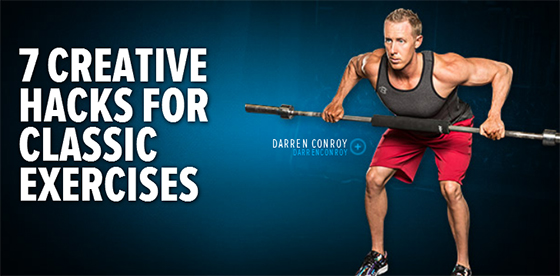
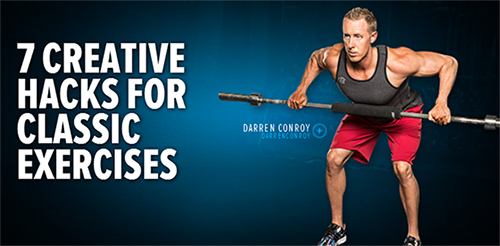
weight loss upadates

diff --git a/pages/weight_loss.html b/pages/weight_loss.html
@@ -109,7 +109,7 @@
 				<li>JAMIE EASON'S GYM GUIDE</li>
 			</nav>
 		</aside>
-		<section id="main_section">
+		
 				<aside id="sidebar-weightloss">
 			<section id="recommended-products">
 				<h3>Recommended Products</h3>
@@ -308,7 +308,7 @@
 				</div>				
 			</section>
 		</aside>
-		
+		<section id="main_section">
 				<!-- content -->
 			<article class="weight-loss-pgs" id="pg1">
 				<section class="hgroup">
@@ -395,7 +395,8 @@
 					</span>
 					
 			</article>
-			<article class="weight-loss-pgs" id="pg1">
+			
+			<article class="weight-loss-pgs" id="pg2">
 				<p>Not feeling rows, push-ups, or curls where you should? Feeling burpees or sprints where you shouldn't? Here's your cheat sheet for taking classic movements to the next level!</p>
 				<footer class="author">
 					<p>Email More</p> 
@@ -406,48 +407,48 @@
 				<p>I'm the sort of trainer who believes that proper technique is crucial—and that no technique is sacred. Sound contradictory? It isn't to me. Sure, we may have a perfectly adequate way of performing a movement, but that doesn't mean there isn't a better way to make it work for you, your body, and your goals.</p>
 				<p>I've found that some people are resistant to refining classic exercises; they assume these exercises are just fine the way they are, since old-school athletes and bodybuilders have been using them forever. But here's the thing: Those old-school athletes and bodybuilders were innovators, too. They built upon knowledge they gained from those who came before them, and then they forged their own path. This is the basis of all progress, in all parts of life.</p>
 				<p>In my article, "7 Gym Hacks You Need to Know," I showed you some novel ways to solve common equipment problems in the weight room. This time around, I'm focusing on refinements we've developed for specific exercises. We use these modifications in the Performance U approach to increase the safety, productivity, and efficiency of classic exercises.</p>
-				<figure class="wrap-img">
+				<figure class="widescreen-img">
 					<img class="img" id="hacks" src="../images/seven-hacks.jpg" alt="a photo of guy hold a barbell in position of pull up exercise"/>
 				</figure>
 				<section class= "profile">
 					<figure id="wrap-img">
-						<img class="img" src="../images/nick.jpg" alt="photo of fitness instructor Francine Marques"/>
+						<a href="http://www.bodybuilding.com/fun/nick-tumminello.html" target="_blank">
+							<img class="img" src="../images/nick.jpg" alt="photo of fitness instructor Nick Tumminello"/>
+						</a>
 					</figure>
 					<h4>Vital Stats</h4>
-						<p><span class="titles-profile">Name:</span> Nick Tuminello</p>
-						<p><span class="titles-profile">Occupation:</span>Trainer, owner of Performance University, author of Strength Training for Fat Loss.</p>
+						<p><em class="titles-profile">Name:</em><a href="http://www.bodybuilding.com/fun/nick-tumminello.html" target="_blank">Nick Tuminello</a></p>
+						<p><em class="titles-profile">Occupation:</em>Trainer, owner of Performance University, author of Strength Training for Fat Loss.</p>
 						<p>Location: Ft. Lauderdale, FL</p> 					
 				</section> 
 				
 				<h3 id="burpees">1. Burpees</h3>
-				<div id="show-burpees">
+				<span id="show-burpees" class="all-weightloss-spans">
 					<p>Most trainers and fitness enthusiasts—of all varieties, not just CrossFit athletes—perform the burpee exercise with less-than-optimal form. What do I mean by this? By going down with their feet together and back bent over, they make the movement both less safe and less metabolically demanding than it could be.</p>
 <p>So what's the solution? Perform your squat thrusts—as burpees are alternately known—less like a squat and more like a sumo deadlift. This moves the stress from the back to the hips, which also enables you to work harder. Lucky you!</p>
 <p>Burpee Exercise How to do Perfect Burpees</p>
 <p>Watch The Video - 1:31</p>
-					<div class="video-wrapper">
+					<div class="videoWrapper">
 						<iframe src="https://www.youtube.com/embed/Lt443cTHYSg" frameborder="0" allowfullscreen></iframe>
 					</div>
 
 <p>Of course, you can add a push-up at the bottom of each burpee, if you'd like. You can also add a jump at the top of each burpee if you're looking to make this exercise more dynamic, and want to further increase the metabolic demands.</p>
-</div>
 <h4>Push-Ups</h3>
-
 <p>You already know that letting your head or hips sag toward the floor displays poor control during push-ups. But that's not all you need to know! Here are three ways to make your push-ups safer on the joints and more powerful, allowing you to crank out more reps and boost the intensity of your workout.</p>
 <p>Push-Up Exercise How to do a Perfect Push Up</p>
 <p>Watch The Video - 5:05</p>
-					<div class="video-wrapper">
+					<div class="videoWrapper">
 						<iframe src="https://www.youtube.com/embed/Lt443cTHYSg" frameborder="0" allowfullscreen></iframe>
 					</div>
-<h4>Arm Angle</p>
+<h4>Arm Angle</h4>
 <p>In order to maximize your ability to create force and get better leverage on each rep, keep your elbows closer to your sides at roughly a 20- to 40-degree angle from your body instead of flaring them out at a 90-degree angle as most people do. This easy tweak shortens the lever arm, which gives you an immediate mechanical advantage. You'll be able to better incorporate your lats and upper-back muscles—after all, this is a total upper-body movement—but it will also make it a better chest movement as you crank out rep after solid rep.</p>
 <h4>Elbow Positioning</h4>
 <p>The push-up is a compound exercise that strengthens the chest, shoulders, and triceps. However, many people allow their elbows to wander past their wrists—either behind or out to the side—which reduces the chest and shoulder involvement and makes it more of a triceps-dominant movement. Unless you're trying to isolate your triceps, keep your elbows above your wrists through the entire push-up action. Your elbows should form a 90-degree angle at the bottom position of the movement.</p>
 <h4>Hand Positioning</h4>
 <p>This is a very common problem. If your hands are pointed slightly inward, toward your body's midline, it encourages you to make both of the mistakes I've already covered. Your arms will flare out away from your sides, and your elbows will wander beyond your wrists. Instead, when performing push-ups, turn your hands outward slightly, pointing your fingers out away from your body's middle at roughly a 45-degree angle.</p>
-</div>
+</span>
 <h3 id="one-arm-push-ups">3. One-Arm Push-Ups</h4>
-<div id="one-arm-push-ups-show">
+<span id="show-one-arm-push-ups" class="all-weightloss-spans">
 <p>I consider the one-arm push-up (let's call it the OAP for short) to be the king of upper-body pushing exercises. As I say in the video below, unless you're training the bench press for a specific competition like a football combine or powerlifting competition, the payoff for mastering the one-arm push-up is usually higher.</p>
 <p>Whether you agree with me or not, you can't argue that the OAP is a great exercise for improving upper-body pushing strength and core stiffness—if you do it right. And when I peruse online OAP videos, I see plenty of examples you shouldn't be following.</p>
 <p>One-Arm Push-Up How to do it the RIGHT Way</p>
@@ -455,55 +456,56 @@
 <p> As I note in the video, some of the same cues that make a great push-up make a great single-armer. For instance, keep your wrist below your elbow and turn your hand out, rather than in. Likewise, you need to keep your elbow in—even more so than in the two-arm version.</p>
 <p>Some people gauge the quality of their OAP by how level they keep their shoulders. Meanwhile, their spine bends and extends so much, they look like they're doing the cobra pose in yoga. Let's be clear: I think it's OK if your pressing shoulder rotates toward your hand on the descent, as long as your shoulders and hips rotate together. Rotating your shoulder slightly can help you corkscrew your working arm into the push-up, which is what makes for truly strong OAPs.</p>
 <p>On the way up, try to push the floor down away from you, and don't lean upward. Get square at the top, and lower yourself back down for another go!
-</div>
+</span>
 <h3 id="bent-over">4. Bent-Over Rows And Inverted Rows</h3>
-<div id="bent-over-show">
+<span id="bent-over" class="all-weightloss-spans">
 <p>Wide-grip bent-over rows are a go-to move in the Performance U training approach when it comes to the mid-back musculature. However, while many people know the great cue of pulling the bar to—or "through"—the chest, few can do it without having to rotate their shoulders inward in the last couple of inches. This changes the training effect of the movement and takes the focus off of where it should be.</p>
 <p>The answer to this common problem is simple: Just wander over to the squat rack and pick up that fat-bar pad someone left lying on the floor. Put it on the bar, and pull the pad—not the bar—up to your chest.</p>
 <p>Barbell Bent Over Rows Wide Grip</p>
 <p>Watch The Video - 2:24</p>
-					<div class="video-wrapper">
+					<div class="videoWrapper">
 						<iframe src="https://www.youtube.com/embed/Lt443cTHYSg" frameborder="0" allowfullscreen></iframe>
 					</div>
 <p>The same hack works wonders on the wide-grip inverted row, another movement where the last couple of inches become a sloppy struggle for far too many people. Use the pad as I direct in these videos, and you'll find yourself rubbing—or at least trying to rub— your middle back the next day, rather than your front delts or biceps.</p>
 <p>Inverted Row Exercise Best Form Tips</p>
 <p>Watch The Video - 1:49</p>
-					<div class="video-wrapper">
+					<div class="videoWrapper">
 						<iframe src="https://www.youtube.com/embed/Lt443cTHYSg" frameborder="0" allowfullscreen></iframe>
 					</div>
-</div>
+</span>
 <h3 id="biceps-curls">5. Dumbbell Biceps Curls</h3>
-<div id="biceps-curls-show">
+<span id="show-biceps-curls" class="all-weightloss-spans">
 <p>Your biceps don't just flex your elbow, they also supinate your forearm, meaning they help you rotate it outward so your palm faces upward. It stands to reason that's it's a smart idea to perform biceps curls in a manner that involves both elbow flexion and forearm supination.</p>
 <p>Here's how: Instead of gripping the dumbbell in the middle, as you might think makes the most sense, grip it with your hand as far to the thumb side as possible. Then, as you curl, keep rotating the dumbbell until you can touch the non-thumb side to the front of your shoulder at the top of the movement.</p>
 <p>Biceps Curls A Better Way to do Dumbbell Biceps Exercise</p>
 <p>Watch The Video - 1:28</p>
-					<div class="video-wrapper">
+					<div class="videoWrapper">
 						<iframe src="https://www.youtube.com/embed/Lt443cTHYSg" frameborder="0" allowfullscreen></iframe>
 					</div>
 <p>This small change in hand position can make a huge difference, because this grip forces you to resist forearm pronation. All of a sudden, a weight that was easy for 10 reps might seem a whole lot harder.</p>
-</div>
+</span>
 <h3 id="chin-up-grip">Determining Chin-Up Grip Width</h3>
-<div id="chin-up-grip-show">
+<span id="show-chin-up-grip" class="all-weightloss-spans">
 <p>There are some exercises I have almost all athletes I work with perform, such as chin-ups, squats, deadlifts, and push-ups. But I definitely don't expect everyone to do them the same way. Why would you try to make your body fit into an exercise, when you could easily customize the movement to your anatomy?</p>
 <p>In this video below, which is a clip taken from my "Secrets of Back Training" DVD, IFBB pro bodybuilder Alex Cambronero and I show you the Performance U approach for determining the chin-up grip width. It's as simple as doing an unweighted biceps curl, and in my experience, it's quite effective at helping athletes optimize their pulling strength.</p>
 <p>Chin Ups Best Chin Up Grip Width</p>
 <p>Watch The Video - 2:24</p>
-					<div class="video-wrapper">
+					<div class="videoWrapper">
 						<iframe src="https://www.youtube.com/embed/Lt443cTHYSg" frameborder="0" allowfullscreen></iframe>
 					</div>
 <p>Now, your arms certainly won't explode if you decide to use a wider or narrower chin-up grip, or if you don't even think about grip width and just "grip and go." Consider this a simple way to help personalize the chin-up movement, feel a little stronger performing it, and maybe squeeze out a rep or two more than you would otherwise.</p>
-</div>
+</span>
 <h3 id="hamstring-injuries">Sprinting Minimizing Hamstring Injuries</h3>
-<div id="hamstring-injuries-show">
+<span id="show-hamstring" class="all-weightloss-spans">
 <p>It no secret to any coach or trainer that athletes are most likely to injure a hamstring in the moments after they explode off the line. If you've watched much Olympic sprinting, football, or even baseball, you've no doubt seen someone "come up lame" after a quick start.</p>
 <p>If you're one of those athletes, the risk is part of the game. It doesn't have to be that way for the rest of us, though. If you're someone who uses sprint training outside a competitive setting, you can minimize your risk of suffering a hamstring injury simply by skipping the quick start.</p>
 <p>Here's how it works: Instead of starting from a still position and exploding off the line, simply jog to the line and begin sprinting once you cross it. Beginning with a preliminary jog means your body will simply be asked to go from a lower gear to a higher gear, rather than going from nothing straight to maximal contraction.</p>
 <p>If you're an athlete training for an event that requires you to begin sprinting from a still position—such as a football combine— you'll need to train specifically for that event by using still starts. That said, there's no reason why you can't also integrate some jog-up starts. They'll help you build your speed while minimizing the risk of injury along the way. </p>
+</span>
 </article>
 
 			
-<!-- 			<article class="weight-loss-pgs" id="pg2">
+			<article class="weight-loss-pgs" id="pg3">
 				<section class="hgroup">
 					<h2>Gain Mass tips</h2>
 					<h3>Pack 10</h3>
@@ -523,7 +525,7 @@
 							<p>But your body is constantly draining its protein reserves for other uses—making hormones, for instance. The result is less protein available for muscle building. To counteract that, you need to "build and store new proteins faster than your body breaks down old proteins," says Michael Houston, Ph.D., a professor of nutrition at Virginia Tech University.</p>
 						</span>			
 			
-			</article>	 -->
+			</article>	
 		</section>	
 		
 		<footer>

diff --git a/css/style.css b/css/style.css
@@ -110,7 +110,7 @@ body img{
 }
 
 /*==============WRAP IMAGES DEFAULTS============================*/
-.wrap-img, #intro-img, #intro-img2, #intro-img3, #gain-mass{
+.wrap-img, #intro-img, #intro-img2, #intro-img3, #gain-mass, .widescreen-img{
 	border:.2em solid #000;
 	margin-bottom:2em;
 }
@@ -134,6 +134,10 @@ body img{
 #gain-mass{
 	width:33em;
 	height:19.45em;
+}
+.widescreen-img{
+	width:33em;
+	height:16.45em;
 }
 /*==============================END OF it============================*/
 /*==========================VIDEO DEFAULT RESPONSIVE=================*/
@@ -1098,6 +1102,7 @@ iframe{
 #sub-nav{
 	float:left;
 	width:18%;
+	height:auto;
 	padding:2em 3em 0 2em;
 }
 #sub-nav h3{
@@ -1111,6 +1116,12 @@ iframe{
 .weight-loss-pgs{
 	width:44%;
 	float:left;
+	margin:0 1em 2em 1em;
+	line-height:1.8;
+	padding:0 .3em 0 .3em;
+}
+.weight-loss-pgs p{
+	margin-bottom:.5em;
 }
 #teen{
 	margin-bottom:1em;
@@ -1133,8 +1144,6 @@ iframe{
 }
 .product p{
 	padding:0 .2em 0 .5em;
-/* 	position:relative;
-	top:-2.4em; */
 	font-size:.76em;
 }
 .product label{
@@ -1152,7 +1161,7 @@ iframe{
 	margin-bottom:.2em;
 }
 .all-weightloss-spans{
-	display:none;
+	/* display:none; */
 }
 .supli{
 	
